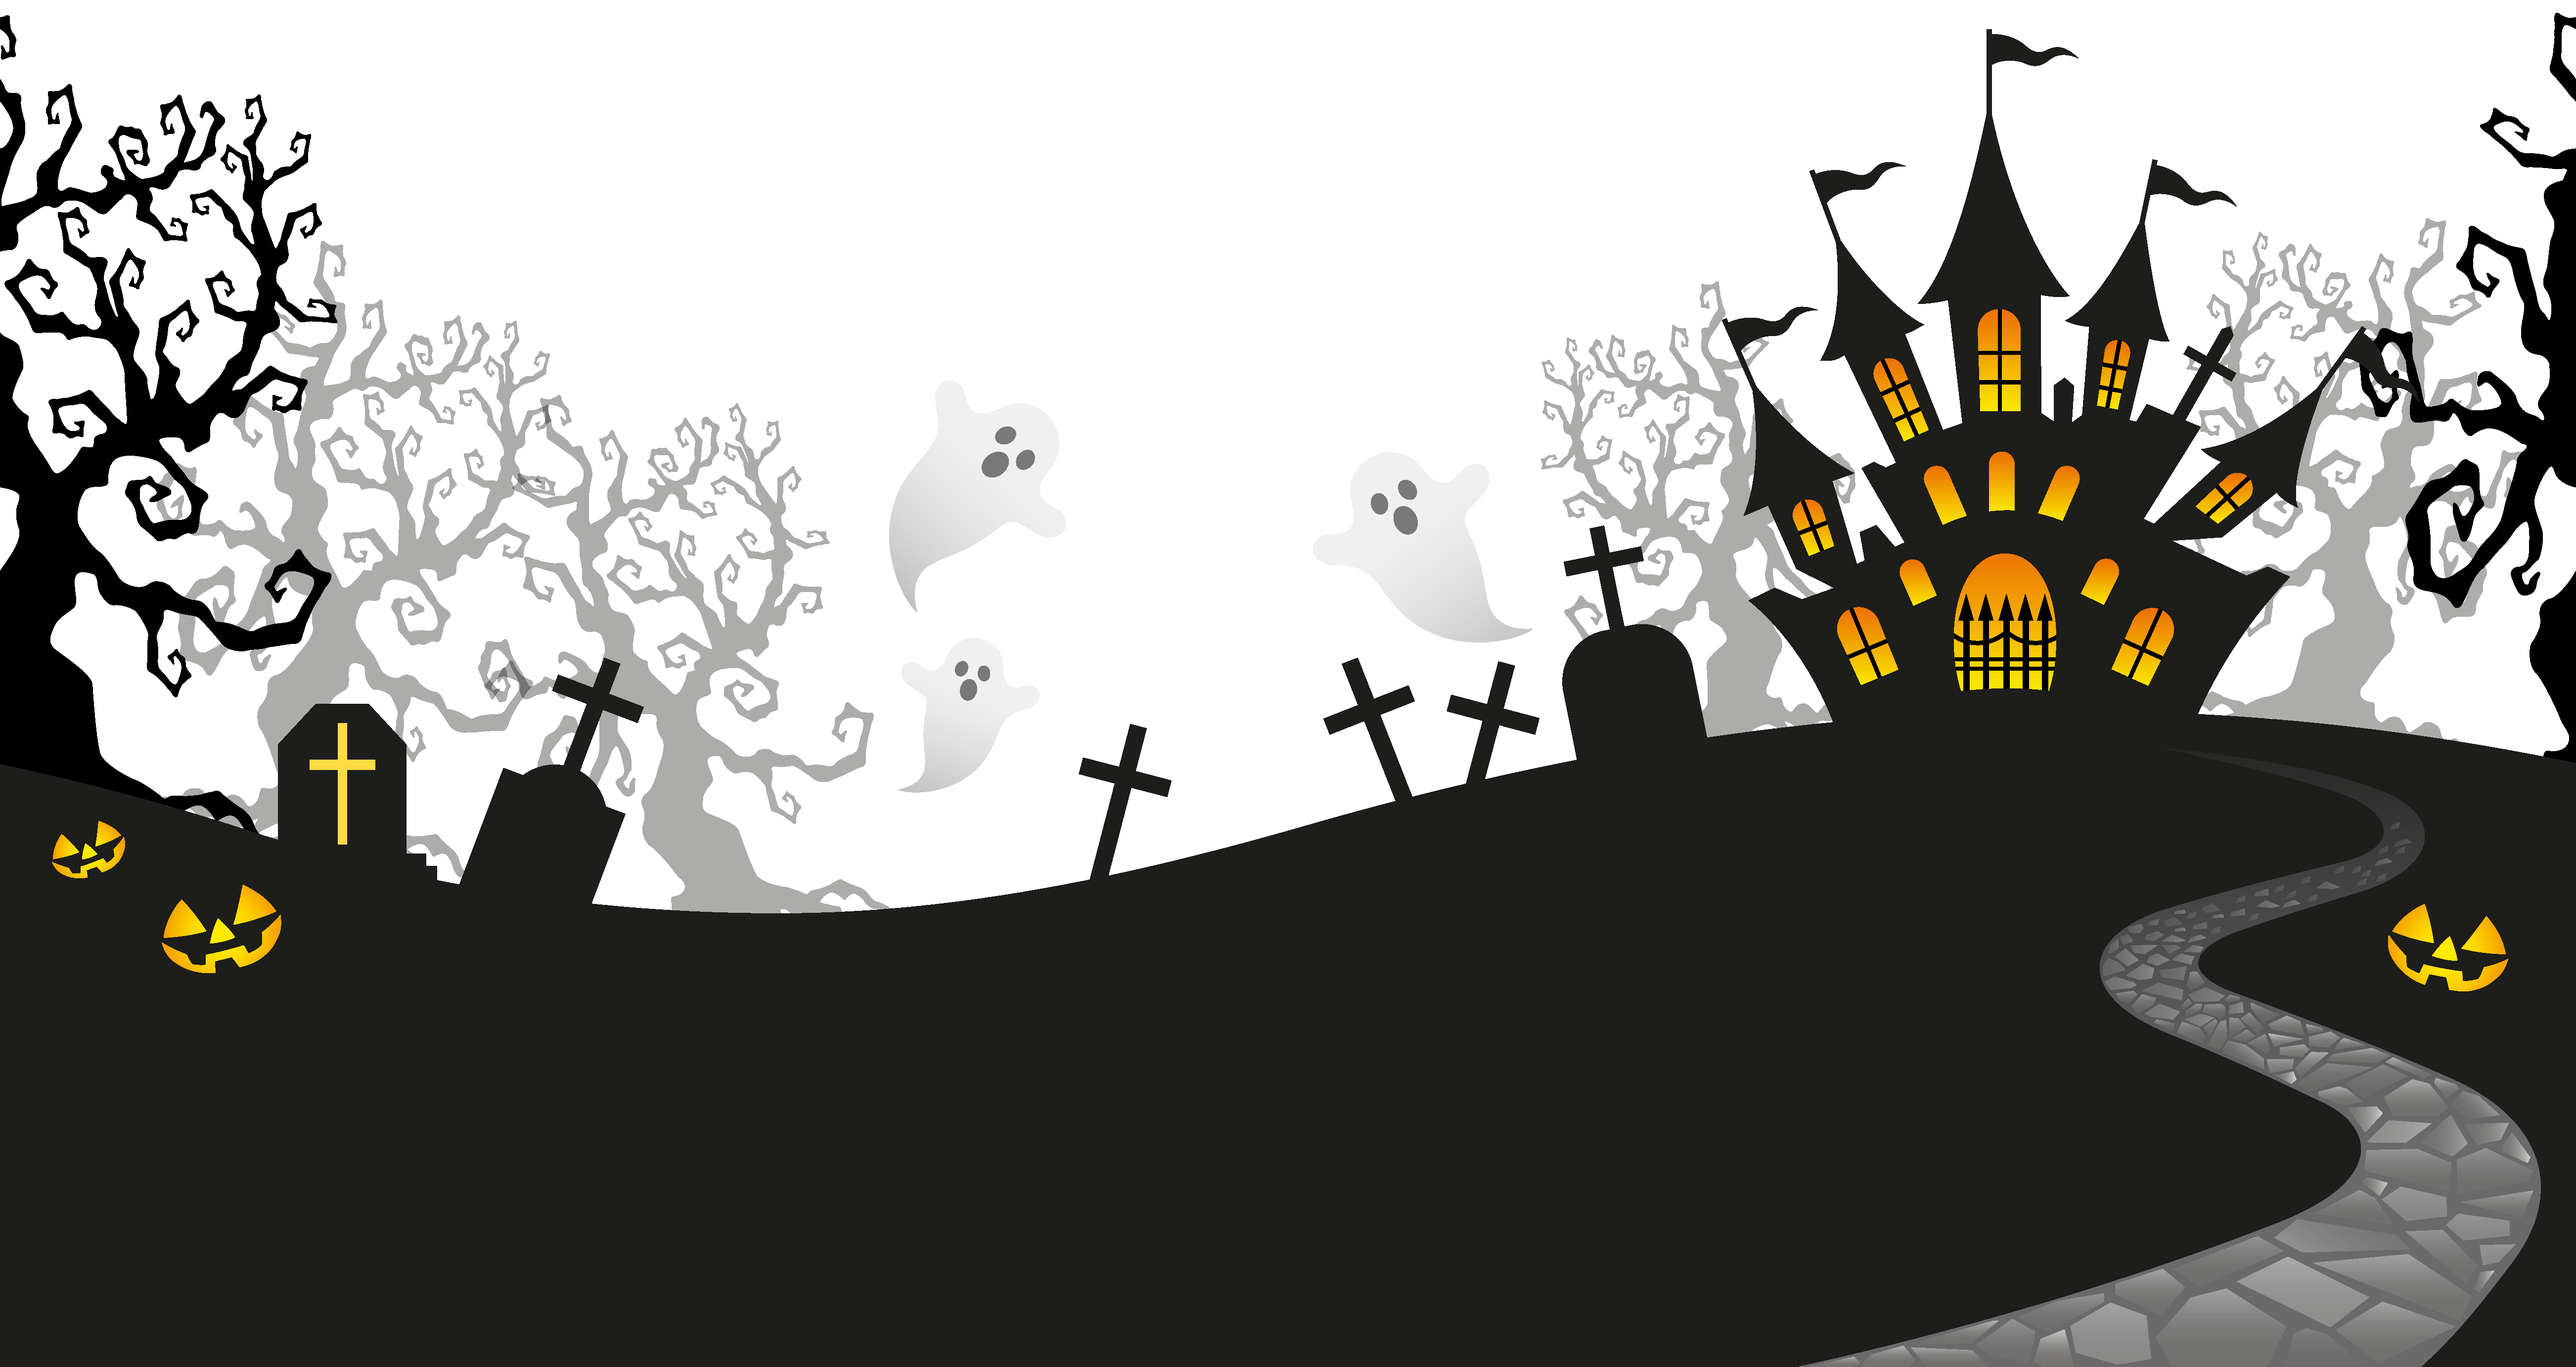
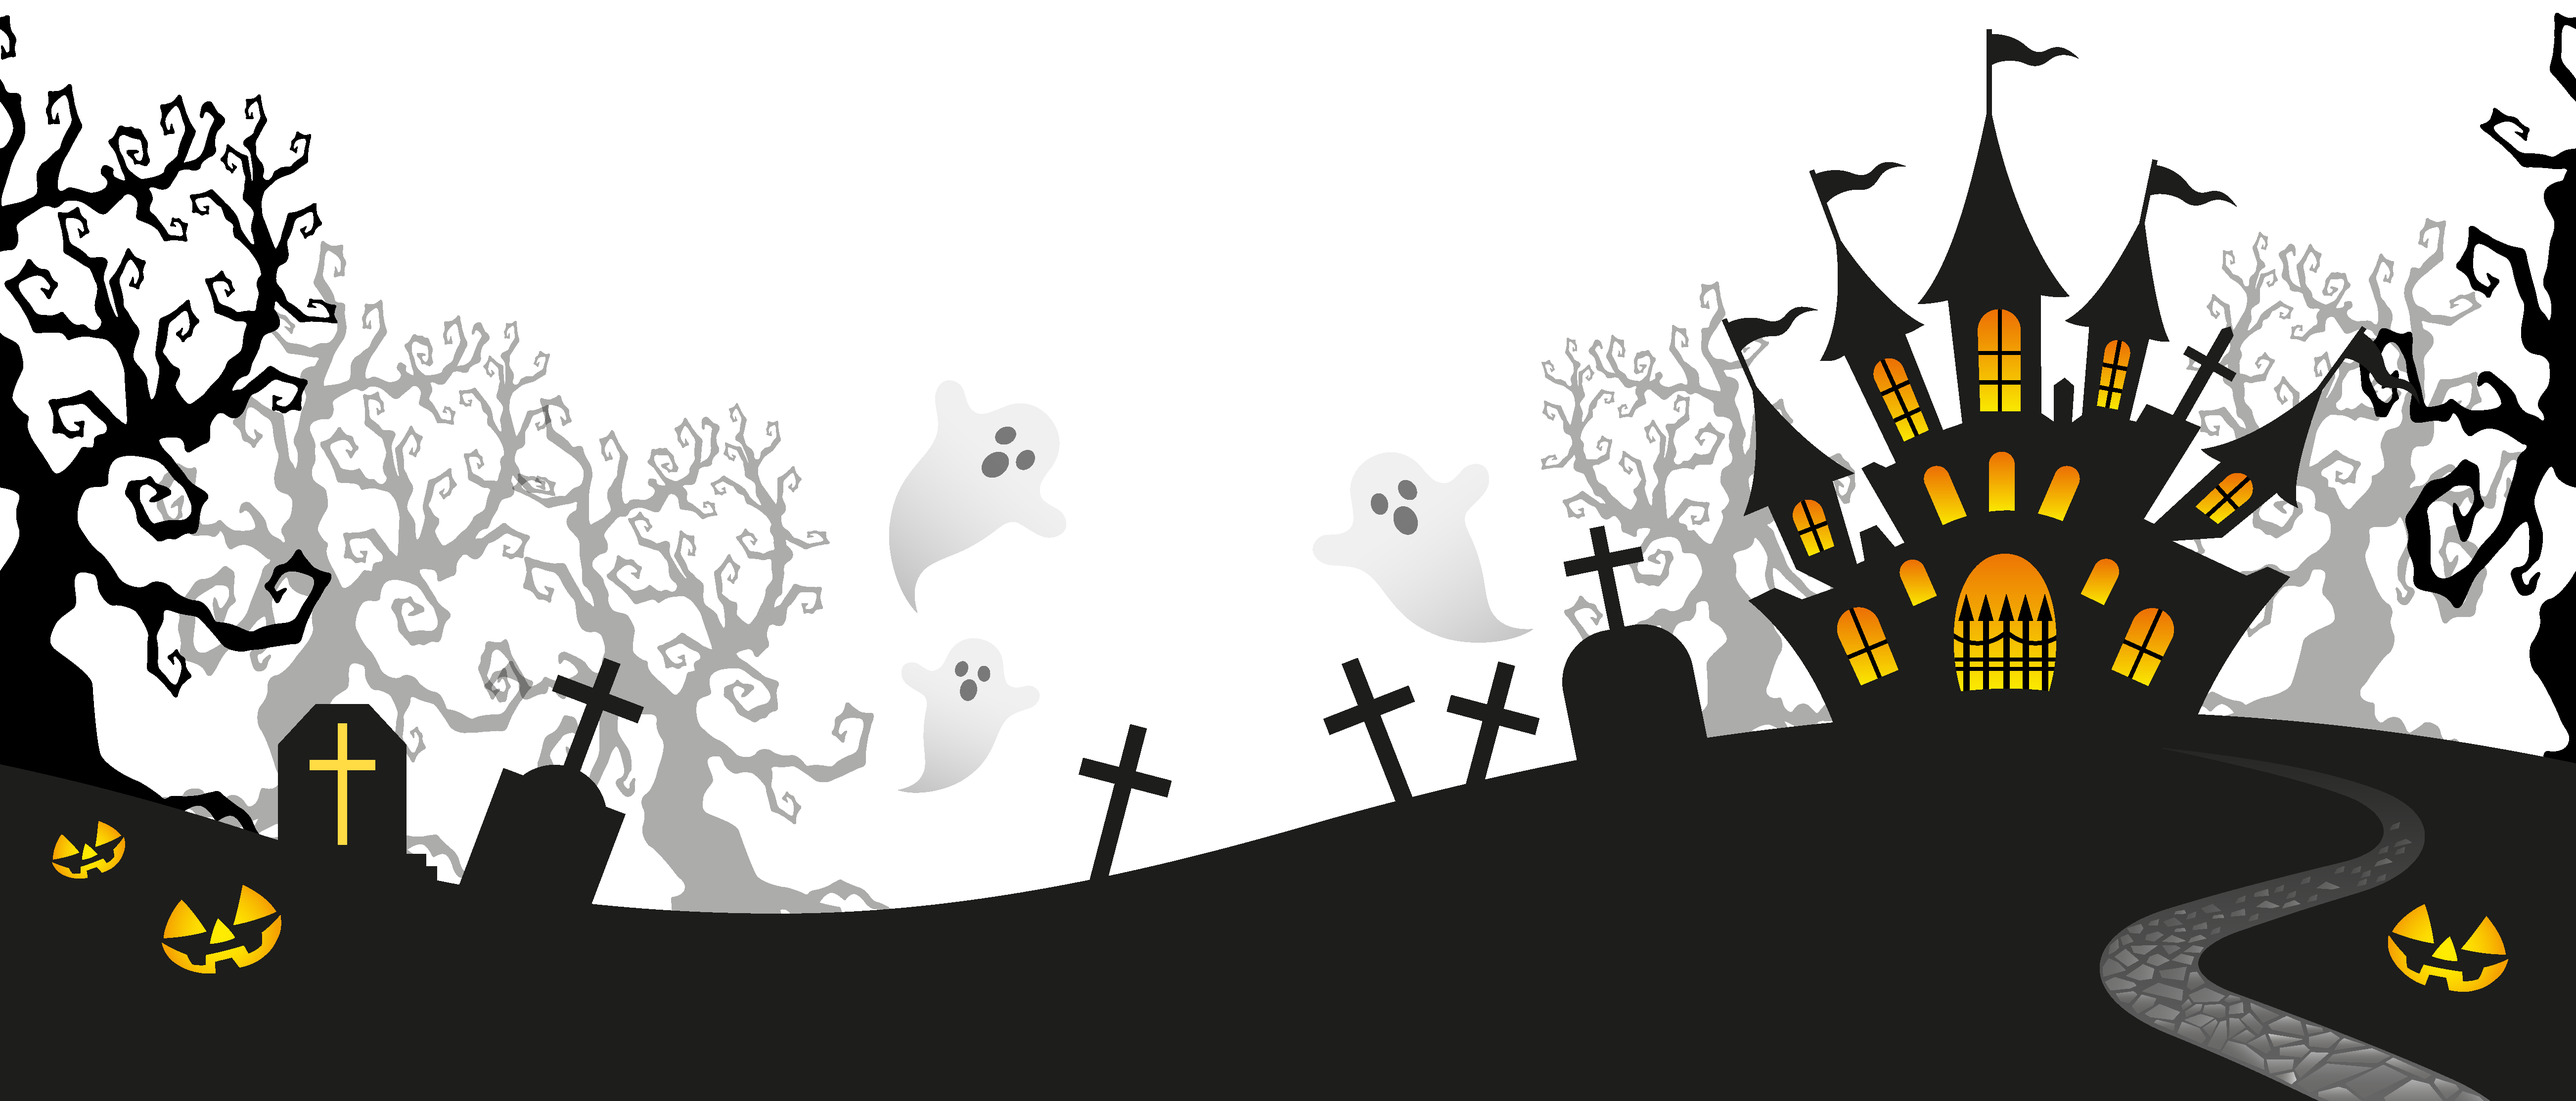
correccion de imagen

diff --git a/resources/js/Pages/PromocionesHalloween2026.vue b/resources/js/Pages/PromocionesHalloween2026.vue
@@ -196,8 +196,8 @@ const submit = () => {
         </Head>
 
         <section
-            class="relative min-h-screen overflow-hidden bg-white bg-repeat pt-32 pb-24 sm:pt-36"
-            style="background-image: url('/img/productos/trama.jpg'); background-size: 640px auto;"
+            class="relative min-h-screen overflow-hidden bg-white bg-repeat pt-32 pb-0 sm:pt-36"
+            style="background-image: url('/img/productos/fondo-promcion.jpeg'); background-size: 640px auto;"
         >
             <div class="relative z-10 mx-auto max-w-6xl px-4 sm:px-6 lg:px-8">
                 <!-- Portada centrada y texto animado de Globoween 2 -->
@@ -333,9 +333,9 @@ const submit = () => {
                     {{ $page.props.flash.success }}
                 </div>
 
-                <!-- Formulario de votación -->
+                <!-- Formulario de votación, superpuesto a la escena inferior -->
                 <form
-                    class="mx-auto mt-10 max-w-3xl space-y-5 sm:mt-12"
+                    class="halloween-form relative z-20 mx-auto max-w-3xl space-y-5"
                     novalidate
                     @submit.prevent="submit"
                 >
@@ -494,7 +494,7 @@ const submit = () => {
                         <div class="w-full flex-1">
                             <label
                                 for="accept-terms"
-                                class="inline-flex items-center gap-3 rounded-2xl px-3 py-2 transition"
+                                class="inline-flex items-center gap-3 rounded-2xl bg-white px-3 py-2 shadow-sm transition"
                                 :class="
                                     allPlacesSelected
                                         ? 'cursor-pointer text-gray-800'
@@ -549,42 +549,13 @@ const submit = () => {
                 </form>
             </div>
 
-            <!-- Decoración esquina inferior izquierda (Tumba Halloween) -->
-            <div
-                class="pointer-events-none absolute bottom-0 left-0 z-0 hidden w-44 opacity-95 select-none md:block lg:w-56"
-                aria-hidden="true"
-            >
-                <svg viewBox="0 0 220 200" fill="none" xmlns="http://www.w3.org/2000/svg">
-                    <path d="M12 195V130M4 150L22 140M4 165L20 156" stroke="#2c124d" stroke-width="2.5" stroke-linecap="round" />
-                    <rect x="68" y="20" width="10" height="36" rx="2" fill="#2c124d" />
-                    <rect x="57" y="30" width="32" height="9" rx="2" fill="#2c124d" />
-                    <path
-                        d="M35 105C35 68 55 52 80 52C105 52 125 68 125 105V196H35V105Z"
-                        fill="#3b0a68"
-                        stroke="#6b1a9b"
-                        stroke-width="4"
-                    />
-                    <circle cx="95" cy="188" r="42" fill="#f9fafb" stroke="#e5e7eb" stroke-width="2" />
-                    <circle cx="96" cy="186" r="14" fill="#65a30d" />
-                    <circle cx="96" cy="186" r="6" fill="#1e1b4b" />
-                </svg>
-            </div>
-
-            <!-- Decoración esquina inferior derecha (Calabaza Halloween) -->
-            <div
-                class="pointer-events-none absolute right-0 bottom-0 z-0 hidden w-48 opacity-95 select-none md:block lg:w-64"
-                aria-hidden="true"
-            >
-                <svg viewBox="0 0 260 160" fill="none" xmlns="http://www.w3.org/2000/svg">
-                    <path d="M242 155V95M236 105L242 92L248 105" stroke="#2c124d" stroke-width="2.5" stroke-linecap="round" stroke-linejoin="round" />
-                    <path d="M125 46C125 32 136 22 145 25C142 35 140 42 140 50" stroke="#7c2d12" stroke-width="8" stroke-linecap="round" />
-                    <ellipse cx="95" cy="125" rx="45" ry="58" fill="#ea580c" />
-                    <ellipse cx="165" cy="125" rx="45" ry="58" fill="#ea580c" />
-                    <ellipse cx="130" cy="122" rx="48" ry="64" fill="#f97316" />
-                    <polygon points="98,108 112,86 122,110" fill="#6b1a9b" />
-                    <polygon points="138,110 150,86 164,108" fill="#6b1a9b" />
-                    <polygon points="124,126 130,114 136,126" fill="#6b1a9b" />
-                </svg>
+            <!-- Escena a todo el ancho: sube detrás del formulario y queda sobre el pie de página -->
+            <div class="halloween-scene pointer-events-none relative z-0 w-full select-none" aria-hidden="true">
+                <img
+                    src="/img/productos/fondo-halloween.png"
+                    alt=""
+                    class="block h-auto w-full max-w-none"
+                />
             </div>
         </section>
 
@@ -771,6 +742,34 @@ const submit = () => {
 
 .globoween-pulse-badge {
     animation: globoweenPulseBadge 3s ease-in-out infinite;
+}
+
+.halloween-form {
+    margin-top: 2.5rem;
+}
+
+.halloween-scene {
+    margin-top: -3.5rem;
+}
+
+@media (min-width: 640px) {
+    .halloween-form {
+        margin-top: 3rem;
+    }
+
+    .halloween-scene {
+        margin-top: -10rem;
+    }
+}
+
+@media (min-width: 1024px) {
+    .halloween-form {
+        margin-top: clamp(3rem, calc(26vw - 20rem), 18rem);
+    }
+
+    .halloween-scene {
+        margin-top: clamp(-40rem, -26vw, -16rem);
+    }
 }
 </style>
 

diff --git a/bootstrap/ssr/ssr.js b/bootstrap/ssr/ssr.js
@@ -13,7 +13,7 @@ async function resolvePageComponent(path, pages) {
   }
   throw new Error(`Page not found: ${path}`);
 }
-const appName = "Globossensacional";
+const appName = "Globos-Sensacional";
 createServer(
   (page) => createInertiaApp({
     page,
@@ -21,7 +21,7 @@ createServer(
     title: (title) => `${title} - ${appName}`,
     resolve: (name) => resolvePageComponent(
       `./Pages/${name}.vue`,
-      /* @__PURE__ */ Object.assign({ "./Pages/Auth/ConfirmPassword.vue": () => import("./assets/ConfirmPassword-C8WGSxWb.js"), "./Pages/Auth/ForgotPassword.vue": () => import("./assets/ForgotPassword-BWGtktDM.js"), "./Pages/Auth/Login.vue": () => import("./assets/Login-DOX2pQ3J.js"), "./Pages/Auth/Register.vue": () => import("./assets/Register-HDrpQGNf.js"), "./Pages/Auth/ResetPassword.vue": () => import("./assets/ResetPassword-zZOp2EEj.js"), "./Pages/Auth/VerifyEmail.vue": () => import("./assets/VerifyEmail-CfdwaHEd.js"), "./Pages/AvisoPrivacidad.vue": () => import("./assets/AvisoPrivacidad-CzVRpHlS.js"), "./Pages/ComingSoon.vue": () => import("./assets/ComingSoon-DPKv10sf.js"), "./Pages/Dashboard.vue": () => import("./assets/Dashboard-jdks2Oa0.js"), "./Pages/EncuentraDistribuidor.vue": () => import("./assets/EncuentraDistribuidor-BKiQEfjV.js"), "./Pages/HazloTuMismo.vue": () => import("./assets/HazloTuMismo-DOwUU3nU.js"), "./Pages/Home.vue": () => import("./assets/Home-CLSO0LLZ.js"), "./Pages/Inspirate.vue": () => import("./assets/Inspirate-Cssv3Z4z.js"), "./Pages/Nosotros.vue": () => import("./assets/Nosotros-hNMf5IzR.js"), "./Pages/Productos.vue": () => import("./assets/Productos-D-GRvA7p.js"), "./Pages/Profile/Edit.vue": () => import("./assets/Edit-UV5mgC4r.js"), "./Pages/Profile/Partials/DeleteUserForm.vue": () => import("./assets/DeleteUserForm-Cfure9xx.js"), "./Pages/Profile/Partials/UpdatePasswordForm.vue": () => import("./assets/UpdatePasswordForm-BLUyY0MX.js"), "./Pages/Profile/Partials/UpdateProfileInformationForm.vue": () => import("./assets/UpdateProfileInformationForm-CJ9XAHY3.js"), "./Pages/PromocionesHalloween2026.vue": () => import("./assets/PromocionesHalloween2026-CmUWK0A3.js"), "./Pages/Welcome.vue": () => import("./assets/Welcome-B_OFjUa9.js") })
+      /* @__PURE__ */ Object.assign({ "./Pages/Auth/ConfirmPassword.vue": () => import("./assets/ConfirmPassword-C8WGSxWb.js"), "./Pages/Auth/ForgotPassword.vue": () => import("./assets/ForgotPassword-BWGtktDM.js"), "./Pages/Auth/Login.vue": () => import("./assets/Login-DOX2pQ3J.js"), "./Pages/Auth/Register.vue": () => import("./assets/Register-HDrpQGNf.js"), "./Pages/Auth/ResetPassword.vue": () => import("./assets/ResetPassword-zZOp2EEj.js"), "./Pages/Auth/VerifyEmail.vue": () => import("./assets/VerifyEmail-CfdwaHEd.js"), "./Pages/AvisoPrivacidad.vue": () => import("./assets/AvisoPrivacidad-sypiWJze.js"), "./Pages/ComingSoon.vue": () => import("./assets/ComingSoon-5KAyjjyo.js"), "./Pages/Dashboard.vue": () => import("./assets/Dashboard-jdks2Oa0.js"), "./Pages/EncuentraDistribuidor.vue": () => import("./assets/EncuentraDistribuidor-5UtjaiuB.js"), "./Pages/HazloTuMismo.vue": () => import("./assets/HazloTuMismo-CZ8cLZ5g.js"), "./Pages/Home.vue": () => import("./assets/Home-Bi-ddHgh.js"), "./Pages/Inspirate.vue": () => import("./assets/Inspirate-I7dd_Ij8.js"), "./Pages/Nosotros.vue": () => import("./assets/Nosotros-XTEZ07YH.js"), "./Pages/Productos.vue": () => import("./assets/Productos-BegwFrTd.js"), "./Pages/Profile/Edit.vue": () => import("./assets/Edit-UV5mgC4r.js"), "./Pages/Profile/Partials/DeleteUserForm.vue": () => import("./assets/DeleteUserForm-Cfure9xx.js"), "./Pages/Profile/Partials/UpdatePasswordForm.vue": () => import("./assets/UpdatePasswordForm-BLUyY0MX.js"), "./Pages/Profile/Partials/UpdateProfileInformationForm.vue": () => import("./assets/UpdateProfileInformationForm-CJ9XAHY3.js"), "./Pages/PromocionesHalloween2026.vue": () => import("./assets/PromocionesHalloween2026-C-i66sDl.js"), "./Pages/Welcome.vue": () => import("./assets/Welcome-B_OFjUa9.js") })
     ),
     setup({ App, props, plugin }) {
       return createSSRApp({ render: () => h(App, props) }).use(plugin).use(ZiggyVue, {
